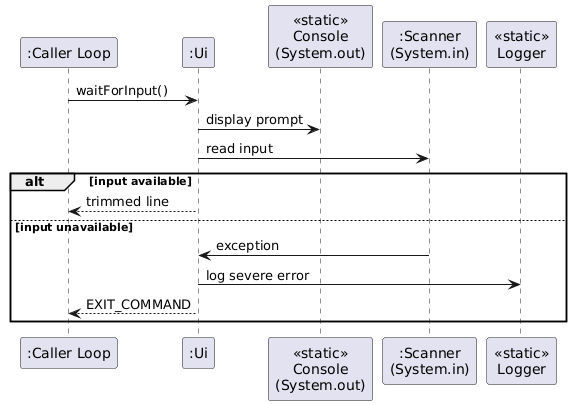
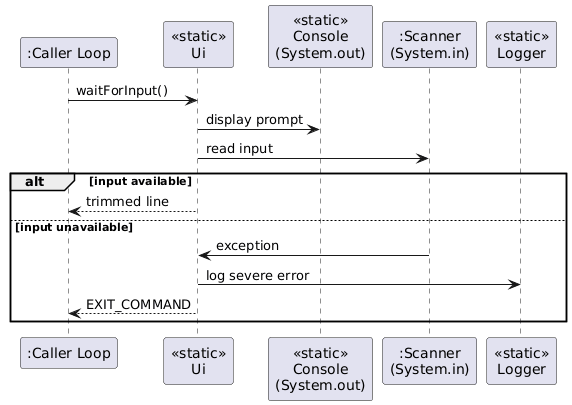
Add Ui module class diagram and refine static stereotypes

Changed region(s): [[0.2675, 0.0296, 0.4161, 0.1778], [0.2675, 0.8296, 0.4161, 0.9481]]

diff --git a/docs/DeveloperGuide.md b/docs/DeveloperGuide.md
@@ -98,7 +98,9 @@ All methods that print `Expense`, `Income`, or `ExpenseCategory` objects follow 
 
 `printListOfIncomes(...)` and `printListOfExpenses(...)` render collections supplied by the model. Both methods iterate defensively: each entry is validated inside the loop, and malformed records are skipped with a `WARNING` log instead of aborting the entire render. Both incomes and expenses are shown newest first to surface recent cash flows. Each row is wrapped with a 80-character horizontal divider to improve readability, and dates are standardised to `yyyy-MM-dd` via a local `DateTimeFormatter`.
 
-![img_1.png](images/img_1.png)
+![UiClassDiagram.png](images/UiClassDiagram.png)
+
+The class diagram highlights how the static `Ui` utility coordinates with key collaborators. `TipsStorage` is owned by `Ui` for retrieving contextual tips, while `Expense`, `Income`, and their category enums are passed in from the model so renderer helpers can format domain objects without duplicating business logic.
 
 #### Logging and Diagnostics
 
